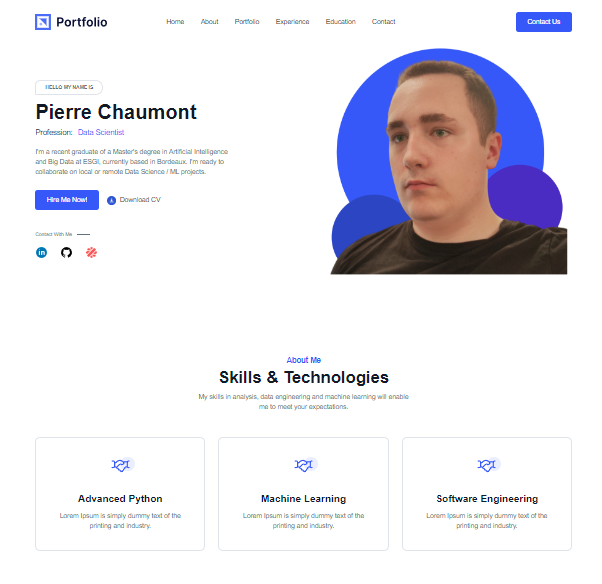
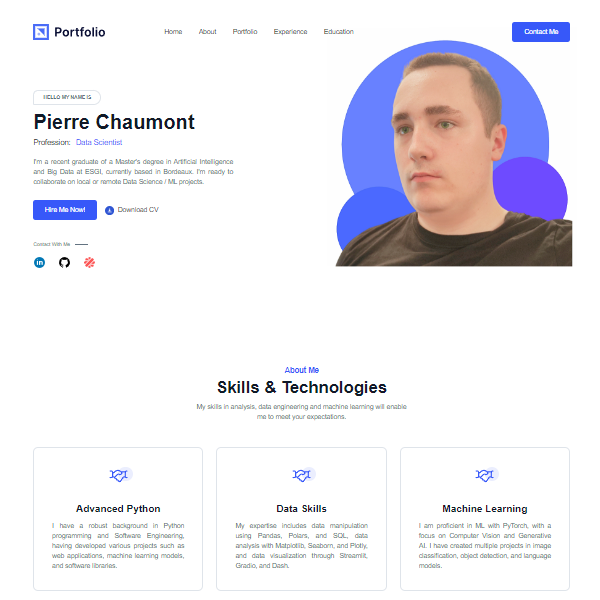
Refactor image path, change image, minor correction text

diff --git a/ROADMAP.md b/ROADMAP.md
@@ -1,14 +1,13 @@
 # Roadmap
 
 - When changing anchors, have a scroll effect
-- Default to French
+- ~~Default to French~~
 - Add a button to change language
 - Review images used for project list
-- Refactor Jinja2 code (tabulation)
+- ~~Refactor Jinja2 code (tabulation)~~
 - Experiences / Education change images
 - ~~Creates a command list to reproduce the A-Z creation of an Ubuntu server installation (Installation, SSL (with Nginx), URL redirection, Server launch in HTTPS)~~
 - ~~Create a “development” and “production” mode for the server (from the .env file)~~
-- Bold “Profession” and job title in header
 - ~~Refactor file locations (all)~~
 - Create CI/CD to update files on ubuntu, restart FastAPI server
 - Create Dockerfile for FastAPI server
